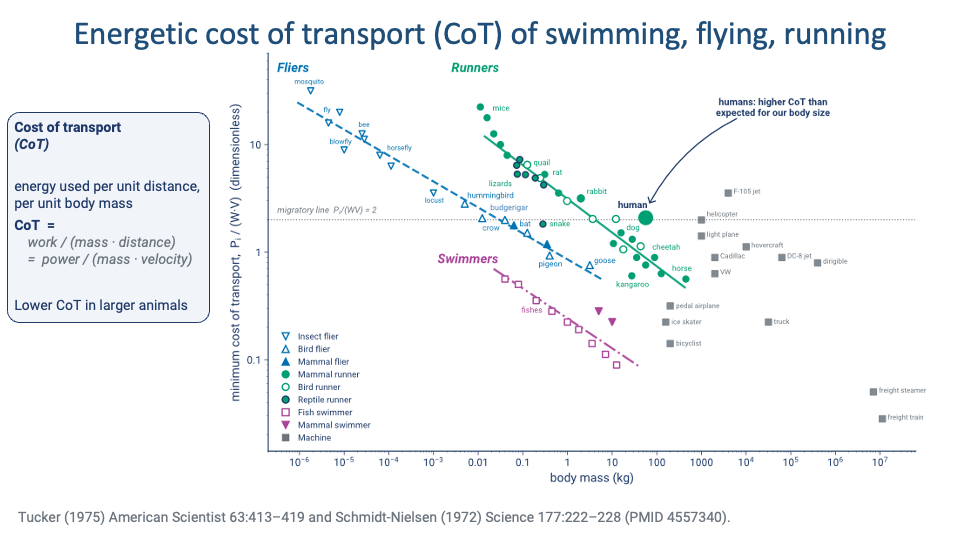
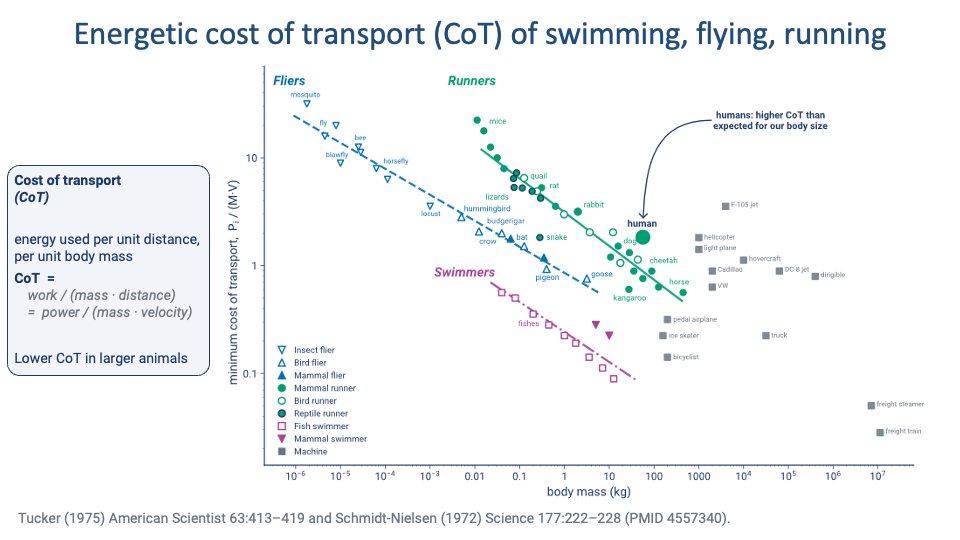
Fix Lecture 17 Slide 16 axis label and image
Replace slide-016.png with corrected version and update alt text:
- Y-axis label is "minimum cost of transport, P_t / (M·V)" (mass·velocity,
  not weight·velocity); removed the incorrect "dimensionless" descriptor.
- Removed the "migratory line P_t/(WV) = 2" mention that does not appear
  in the corrected figure.
- Updated species ordering and machine list to match the new slide and
  added the bottom citation (Tucker 1975; Schmidt-Nielsen 1972).

diff --git a/week08/lecture17-energy-cost.md b/week08/lecture17-energy-cost.md
@@ -216,7 +216,7 @@ $$\text{CoT} = \frac{\dot{V}O_2}{\text{speed}} = \frac{\text{ml }O_2}{\text{kg} 
 
 ## Slide 16
 
-![Slide titled "Energetic cost of transport (CoT) of swimming, flying, running" with a large log-log scatter plot reproduced from Tucker 1975 and Schmidt-Nielsen 1972. X-axis: body mass (kg, log scale from 10⁻⁶ to 10⁷). Y-axis: minimum cost of transport P_t/(W·V) (dimensionless, log scale from 0.1 to 10+). Three diagonal trend lines run downward-right: dashed blue "Fliers" (insect, bird, mammal fliers — mosquito, fly, bee, blowfly, horsefly, locust, hummingbird, budgerigar, crow, bat, pigeon, goose) at the top; solid green "Runners" (mammal, bird, reptile runners — mice, lizards, rat, quail, rabbit, snake, dog, cheetah, kangaroo, horse, human) in the middle; dashed magenta "Swimmers" (fish, mammal swimmers) at the bottom. A horizontal dotted line labeled "migratory line P_t/(WV) = 2" cuts across the middle. A human data point is highlighted with an arrow labeled "humans: higher CoT than expected for our body size." Grey square data points along the bottom right represent man-made machines: ice skater, bicyclist, pedal airplane, hovercraft, Cadillac, DC-8 jet, VW, light plane, helicopter, F-105 jet, truck, freight steamer, freight train, dirigible. A left-side panel summarizes: "Cost of transport (CoT) — energy used per unit distance, per unit body mass. CoT = work/(mass·distance) = power/(mass·velocity). Lower CoT in larger animals."](images/lec17/slide-016.png)
+![Slide titled "Energetic cost of transport (CoT) of swimming, flying, running" with a large log-log scatter plot reproduced from Tucker 1975 and Schmidt-Nielsen 1972. X-axis: body mass (kg, log scale from 10⁻⁶ to 10⁷). Y-axis: minimum cost of transport, P_t/(M·V) (log scale from 0.1 to 10+). Three diagonal trend lines run downward-right: dashed blue "Fliers" (insect, bird, mammal fliers — mosquito, fly, blowfly, bee, horsefly, locust, hummingbird, budgerigar, crow, bat, pigeon) at the top; solid green "Runners" (mammal, bird, reptile runners — mice, quail, lizards, rat, rabbit, snake, goose, dog, human, cheetah, kangaroo, horse) in the middle; dashed magenta "Swimmers" (fish, mammal swimmers — fishes) at the bottom. A human data point is highlighted with an arrow labeled "humans: higher CoT than expected for our body size." Grey square data points along the bottom right represent man-made machines: pedal airplane, ice skater, bicyclist, F-105 jet, helicopter, light plane, Cadillac, hovercraft, VW, DC-8 jet, dirigible, truck, freight steamer, freight train. A left-side panel summarizes: "Cost of transport (CoT) — energy used per unit distance, per unit body mass. CoT = work / (mass · distance) = power / (mass · velocity). Lower CoT in larger animals." Citation at bottom: Tucker (1975) American Scientist 63:413–419 and Schmidt-Nielsen (1972) Science 177:222–228 (PMID 4557340).](images/lec17/slide-016.png)
 
 ### Cost of Transport Across Locomotor Modes
 
